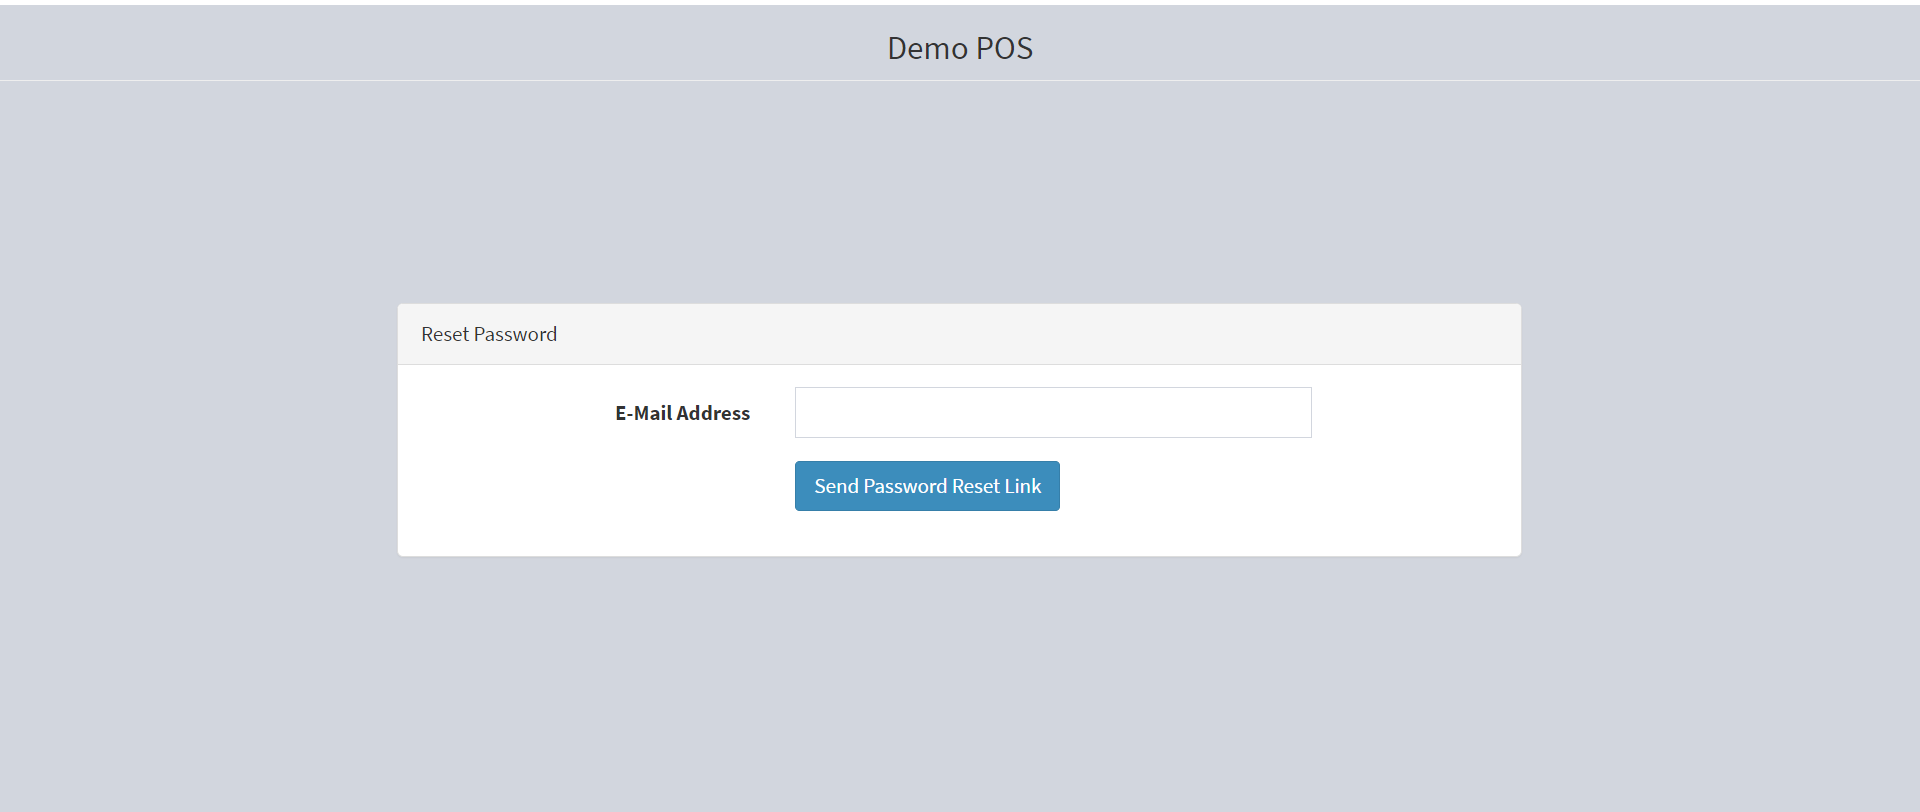
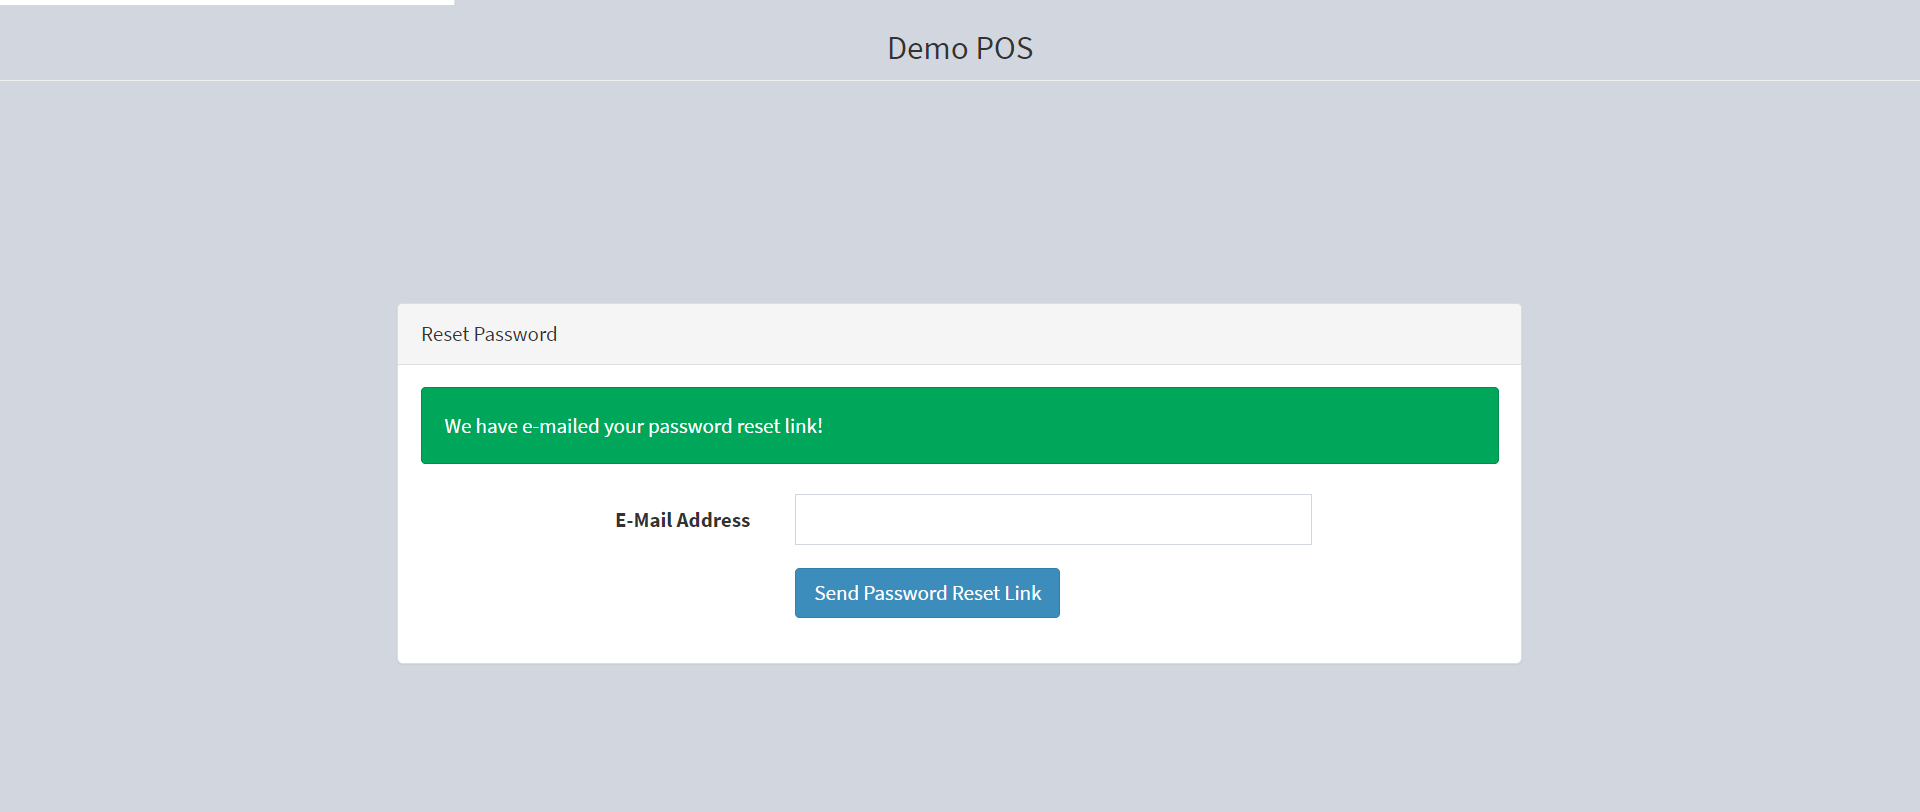
project

Changed region(s): [[0.1875, 0.6773, 0.8125, 0.8313], [0.2188, 0.4618, 0.7812, 0.6466], [0.25, 0.0, 1.0, 0.0308]]

diff --git a/Project-1/test-output/index.html b/Project-1/test-output/index.html
@@ -50,7 +50,7 @@
               <ul>
                 <li>
                   <a href="#" panel-name="test-xml-Default_suite" class="navigator-link ">
-                    <span>C:\Users\pooja\AppData\Local\Temp\testng-eclipse-1835294674\testng-customsuite.xml</span>
+                    <span>C:\Users\pooja\AppData\Local\Temp\testng-eclipse-1530532662\testng-customsuite.xml</span>
                   </a> <!-- navigator-link  -->
                 </li>
                 <li>
@@ -103,7 +103,7 @@
                     <div class="method-list-content passed suite-Default_suite">
                       <span>
                         <img src="passed.png" width="3%"/>
-                        <a href="#" panel-name="suite-Default_suite" title="testscripts.ResetTest" class="method navigator-link" hash-for-method="passwordResetwithValidEmailid">passwordResetwithValidEmailid</a> <!-- method navigator-link -->
+                        <a href="#" panel-name="suite-Default_suite" title="testscripts.ResetTest" class="method navigator-link" hash-for-method="errormessagewithInvalidEmailid">errormessagewithInvalidEmailid</a> <!-- method navigator-link -->
                       </span>
                       <br/>
                     </div> <!-- method-list-content passed suite-Default_suite -->
@@ -126,9 +126,9 @@
             <div class="main-panel-content rounded-window-bottom">
               <div class="method">
                 <div class="method-content">
-                  <a name="passwordResetwithValidEmailid">
-                  </a> <!-- passwordResetwithValidEmailid -->
-                  <span class="method-name">passwordResetwithValidEmailid</span>
+                  <a name="errormessagewithInvalidEmailid">
+                  </a> <!-- errormessagewithInvalidEmailid -->
+                  <span class="method-name">errormessagewithInvalidEmailid</span>
                 </div> <!-- method-content -->
               </div> <!-- method -->
             </div> <!-- main-panel-content rounded-window-bottom -->
@@ -136,7 +136,7 @@
         </div> <!-- panel Default_suite -->
         <div panel-name="test-xml-Default_suite" class="panel">
           <div class="main-panel-header rounded-window-top">
-            <span class="header-content">C:\Users\pooja\AppData\Local\Temp\testng-eclipse-1835294674\testng-customsuite.xml</span>
+            <span class="header-content">C:\Users\pooja\AppData\Local\Temp\testng-eclipse-1530532662\testng-customsuite.xml</span>
           </div> <!-- main-panel-header rounded-window-top -->
           <div class="main-panel-content rounded-window-bottom">
             <pre>
@@ -147,7 +147,7 @@
     &lt;classes&gt;
       &lt;class name=&quot;testscripts.ResetTest&quot;&gt;
         &lt;methods&gt;
-          &lt;include name=&quot;passwordResetwithValidEmailid&quot;/&gt;
+          &lt;include name=&quot;errormessagewithInvalidEmailid&quot;/&gt;
         &lt;/methods&gt;
       &lt;/class&gt; &lt;!-- testscripts.ResetTest --&gt;
     &lt;/classes&gt;
@@ -191,14 +191,14 @@ data.addColumn('string', 'Class');
 data.addColumn('number', 'Time (ms)');
 data.addRows(1);
 data.setCell(0, 0, 0)
-data.setCell(0, 1, 'passwordResetwithValidEmailid')
+data.setCell(0, 1, 'errormessagewithInvalidEmailid')
 data.setCell(0, 2, 'testscripts.ResetTest')
-data.setCell(0, 3, 2275);
+data.setCell(0, 3, 3718);
 window.suiteTableData['Default_suite']= { tableData: data, tableDiv: 'times-div-Default_suite'}
 return data;
 }
               </script>
-              <span class="suite-total-time">Total running time: 2 seconds</span>
+              <span class="suite-total-time">Total running time: 3 seconds</span>
               <div id="times-div-Default_suite">
               </div> <!-- times-div-Default_suite -->
             </div> <!-- times-div -->
@@ -219,7 +219,7 @@ return data;
             <div class="ignored-class-div">
               <span class="ignored-class-name">testscripts.ResetTest</span>
               <div class="ignored-methods-div">
-                <span class="ignored-method-name">errormessagewithInvalidEmailid</span>
+                <span class="ignored-method-name">passwordResetwithValidEmailid</span>
                 <br/>
               </div> <!-- ignored-methods-div -->
             </div> <!-- ignored-class-div -->
@@ -237,12 +237,12 @@ return data;
                 <span class="method-start">0 ms</span>
               </div> <!-- configuration-method before -->
               <div class="test-method">
-                <span class="method-name">passwordResetwithValidEmailid</span>
-                <span class="method-start">12068 ms</span>
+                <span class="method-name">errormessagewithInvalidEmailid</span>
+                <span class="method-start">15000 ms</span>
               </div> <!-- test-method -->
               <div class="configuration-method after">
-                <span class="method-name">closeBrowser([TestResult name=passwordResetwithValidEmailid status=SUCCESS method=ResetTest.passwordResetwithVali...)</span>
-                <span class="method-start">14348 ms</span>
+                <span class="method-name">closeBrowser([TestResult name=errormessagewithInvalidEmailid status=SUCCESS method=ResetTest.errormessagewithInva...)</span>
+                <span class="method-start">18724 ms</span>
               </div> <!-- configuration-method after -->
           </div> <!-- main-panel-content rounded-window-bottom -->
         </div> <!-- panel -->

diff --git a/Project-1/test-output/old/Default suite/methods-alphabetical.html b/Project-1/test-output/old/Default suite/methods-alphabetical.html
@@ -1,10 +1,10 @@
 <h2>Methods run, sorted chronologically</h2><h3>&gt;&gt; means before, &lt;&lt; means after</h3><p/><br/><em>Default suite</em><p/><small><i>(Hover the method name to see the test class name)</i></small><p/>
 <table border="1">
 <tr><th>Time</th><th>Delta (ms)</th><th>Suite<br>configuration</th><th>Test<br>configuration</th><th>Class<br>configuration</th><th>Groups<br>configuration</th><th>Method<br>configuration</th><th>Test<br>method</th><th>Thread</th><th>Instances</th></tr>
-<tr bgcolor="e6e07c">  <td>24/08/26 14:54:15</td>   <td>0</td> <td>&nbsp;</td><td>&nbsp;</td><td>&nbsp;</td><td>&nbsp;</td><td title="&lt;&lt;Base.closeBrowser(org.testng.ITestResult)[pri:0, instance:testscripts.ResetTest@313ac989]">&lt;&lt;closeBrowser</td> 
+<tr bgcolor="e6e07c">  <td>24/08/26 16:21:30</td>   <td>0</td> <td>&nbsp;</td><td>&nbsp;</td><td>&nbsp;</td><td>&nbsp;</td><td title="&lt;&lt;Base.closeBrowser(org.testng.ITestResult)[pri:0, instance:testscripts.ResetTest@313ac989]">&lt;&lt;closeBrowser</td> 
 <td>&nbsp;</td>  <td>main@1159190947</td>   <td></td> </tr>
-<tr bgcolor="ef8d72">  <td>24/08/26 14:54:13</td>   <td>-2282</td> <td>&nbsp;</td><td>&nbsp;</td><td>&nbsp;</td><td>&nbsp;</td><td>&nbsp;</td><td title="ResetTest.passwordResetwithValidEmailid()[pri:0, instance:testscripts.ResetTest@313ac989]">passwordResetwithValidEmailid</td> 
+<tr bgcolor="ef8d72">  <td>24/08/26 16:21:27</td>   <td>-3728</td> <td>&nbsp;</td><td>&nbsp;</td><td>&nbsp;</td><td>&nbsp;</td><td>&nbsp;</td><td title="ResetTest.errormessagewithInvalidEmailid()[pri:0, instance:testscripts.ResetTest@313ac989]">errormessagewithInvalidEmailid</td> 
   <td>main@1159190947</td>   <td></td> </tr>
-<tr bgcolor="e6e07c">  <td>24/08/26 14:54:01</td>   <td>-14346</td> <td>&nbsp;</td><td>&nbsp;</td><td>&nbsp;</td><td>&nbsp;</td><td title="&gt;&gt;Base.setBrowser()[pri:0, instance:testscripts.ResetTest@313ac989]">&gt;&gt;setBrowser</td> 
+<tr bgcolor="e6e07c">  <td>24/08/26 16:21:12</td>   <td>-18724</td> <td>&nbsp;</td><td>&nbsp;</td><td>&nbsp;</td><td>&nbsp;</td><td title="&gt;&gt;Base.setBrowser()[pri:0, instance:testscripts.ResetTest@313ac989]">&gt;&gt;setBrowser</td> 
 <td>&nbsp;</td>  <td>main@1159190947</td>   <td></td> </tr>
 </table>

diff --git a/Project-1/test-output/old/Default suite/methods.html b/Project-1/test-output/old/Default suite/methods.html
@@ -1,10 +1,10 @@
 <h2>Methods run, sorted chronologically</h2><h3>&gt;&gt; means before, &lt;&lt; means after</h3><p/><br/><em>Default suite</em><p/><small><i>(Hover the method name to see the test class name)</i></small><p/>
 <table border="1">
 <tr><th>Time</th><th>Delta (ms)</th><th>Suite<br>configuration</th><th>Test<br>configuration</th><th>Class<br>configuration</th><th>Groups<br>configuration</th><th>Method<br>configuration</th><th>Test<br>method</th><th>Thread</th><th>Instances</th></tr>
-<tr bgcolor="e6e07c">  <td>24/08/26 14:54:01</td>   <td>0</td> <td>&nbsp;</td><td>&nbsp;</td><td>&nbsp;</td><td>&nbsp;</td><td title="&gt;&gt;Base.setBrowser()[pri:0, instance:testscripts.ResetTest@313ac989]">&gt;&gt;setBrowser</td> 
+<tr bgcolor="e6e07c">  <td>24/08/26 16:21:30</td>   <td>0</td> <td>&nbsp;</td><td>&nbsp;</td><td>&nbsp;</td><td>&nbsp;</td><td title="&lt;&lt;Base.closeBrowser(org.testng.ITestResult)[pri:0, instance:testscripts.ResetTest@313ac989]">&lt;&lt;closeBrowser</td> 
 <td>&nbsp;</td>  <td>main@1159190947</td>   <td></td> </tr>
-<tr bgcolor="e6e07c">  <td>24/08/26 14:54:15</td>   <td>14346</td> <td>&nbsp;</td><td>&nbsp;</td><td>&nbsp;</td><td>&nbsp;</td><td title="&lt;&lt;Base.closeBrowser(org.testng.ITestResult)[pri:0, instance:testscripts.ResetTest@313ac989]">&lt;&lt;closeBrowser</td> 
+<tr bgcolor="e6e07c">  <td>24/08/26 16:21:12</td>   <td>-18724</td> <td>&nbsp;</td><td>&nbsp;</td><td>&nbsp;</td><td>&nbsp;</td><td title="&gt;&gt;Base.setBrowser()[pri:0, instance:testscripts.ResetTest@313ac989]">&gt;&gt;setBrowser</td> 
 <td>&nbsp;</td>  <td>main@1159190947</td>   <td></td> </tr>
-<tr bgcolor="ef8d72">  <td>24/08/26 14:54:13</td>   <td>12064</td> <td>&nbsp;</td><td>&nbsp;</td><td>&nbsp;</td><td>&nbsp;</td><td>&nbsp;</td><td title="ResetTest.passwordResetwithValidEmailid()[pri:0, instance:testscripts.ResetTest@313ac989]">passwordResetwithValidEmailid</td> 
+<tr bgcolor="ef8d72">  <td>24/08/26 16:21:27</td>   <td>-3728</td> <td>&nbsp;</td><td>&nbsp;</td><td>&nbsp;</td><td>&nbsp;</td><td>&nbsp;</td><td title="ResetTest.errormessagewithInvalidEmailid()[pri:0, instance:testscripts.ResetTest@313ac989]">errormessagewithInvalidEmailid</td> 
   <td>main@1159190947</td>   <td></td> </tr>
 </table>

diff --git a/Project-1/test-output/emailable-report.html b/Project-1/test-output/emailable-report.html
@@ -9,10 +9,10 @@
 <table>
 <tr><th>Test</th><th># Passed</th><th># Skipped</th><th># Retried</th><th># Failed</th><th>Time (ms)</th><th>Included Groups</th><th>Excluded Groups</th></tr>
 <tr><th colspan="8">Default suite</th></tr>
-<tr><td><a href="#t0">Default test</a></td><td class="num">1</td><td class="num">0</td><td class="num">0</td><td class="num">0</td><td class="num">14,389</td><td></td><td></td></tr>
+<tr><td><a href="#t0">Default test</a></td><td class="num">1</td><td class="num">0</td><td class="num">0</td><td class="num">0</td><td class="num">18,925</td><td></td><td></td></tr>
 </table>
-<table id='summary'><thead><tr><th>Class</th><th>Method</th><th>Start</th><th>Time (ms)</th></tr></thead><tbody><tr><th colspan="4">Default suite</th></tr></tbody><tbody id="t0"><tr><th colspan="4">Default test &#8212; passed</th></tr><tr class="passedeven"><td rowspan="1">testscripts.ResetTest</td><td><a href="#m0">passwordResetwithValidEmailid</a></td><td rowspan="1">1724664253194</td><td rowspan="1">2275</td></tr></tbody>
+<table id='summary'><thead><tr><th>Class</th><th>Method</th><th>Start</th><th>Time (ms)</th></tr></thead><tbody><tr><th colspan="4">Default suite</th></tr></tbody><tbody id="t0"><tr><th colspan="4">Default test &#8212; passed</th></tr><tr class="passedeven"><td rowspan="1">testscripts.ResetTest</td><td><a href="#m0">errormessagewithInvalidEmailid</a></td><td rowspan="1">1724669487231</td><td rowspan="1">3718</td></tr></tbody>
 </table>
-<h2>Default test</h2><h3 id="m0">testscripts.ResetTest#passwordResetwithValidEmailid</h3><table class="result"><tr><th class="invisible"/></tr></table><p class="totop"><a href="#summary">back to summary</a></p>
+<h2>Default test</h2><h3 id="m0">testscripts.ResetTest#errormessagewithInvalidEmailid</h3><table class="result"><tr><th class="invisible"/></tr></table><p class="totop"><a href="#summary">back to summary</a></p>
 </body>
 </html>

diff --git a/Project-1/test-output/old/index.html b/Project-1/test-output/old/index.html
@@ -4,6 +4,6 @@
 </head><body>
 <h2><p align='center'>Test results</p></h2>
 <table border='1' width='100%' class='main-page'><tr><th>Suite</th><th>Passed</th><th>Failed</th><th>Skipped</th><th>testng.xml</th></tr>
-<tr align='center' class='invocation-failed'><td><em>Total</em></td><td><em>0</em></td><td><em>1</em></td><td><em>0</em></td><td>&nbsp;</td></tr>
-<tr align='center' class='invocation-failed'><td><a href='Default suite/index.html'>Default suite</a></td>
-<td>0</td><td>1</td><td>0</td><td><a href='Default suite/testng.xml.html'>Link</a></td></tr></table></body></html>
+<tr align='center' class='invocation-passed'><td><em>Total</em></td><td><em>1</em></td><td><em>0</em></td><td><em>0</em></td><td>&nbsp;</td></tr>
+<tr align='center' class='invocation-passed'><td><a href='Default suite/index.html'>Default suite</a></td>
+<td>1</td><td>0</td><td>0</td><td><a href='Default suite/testng.xml.html'>Link</a></td></tr></table></body></html>

diff --git a/Project-1/test-output/Default suite/Default test.html b/Project-1/test-output/Default suite/Default test.html
@@ -57,9 +57,9 @@ function toggleAllBoxes() {
 <tr>
 <td>Tests passed/Failed/Skipped:</td><td>1/0/0</td>
 </tr><tr>
-<td>Started on:</td><td>Mon Aug 26 14:54:01 IST 2024</td>
+<td>Started on:</td><td>Mon Aug 26 16:21:12 IST 2024</td>
 </tr>
-<tr><td>Total time:</td><td>14 seconds (14389 ms)</td>
+<tr><td>Total time:</td><td>18 seconds (18925 ms)</td>
 </tr><tr>
 <td>Included groups:</td><td></td>
 </tr><tr>
@@ -76,9 +76,9 @@ function toggleAllBoxes() {
 <td><b>Instance</b></td>
 </tr>
 <tr>
-<td title='testscripts.ResetTest.passwordResetwithValidEmailid()'><b>passwordResetwithValidEmailid</b><br>Test class: testscripts.ResetTest</td>
+<td title='testscripts.ResetTest.errormessagewithInvalidEmailid()'><b>errormessagewithInvalidEmailid</b><br>Test class: testscripts.ResetTest</td>
 <td></td>
-<td>2</td>
+<td>3</td>
 <td>testscripts.ResetTest@313ac989</td></tr>
 </table><p>
 </body>

diff --git a/Project-1/src/test/java/testscripts/ResetTest.java b/Project-1/src/test/java/testscripts/ResetTest.java
@@ -1,5 +1,7 @@
 package testscripts;
 
+import static org.testng.Assert.assertEquals;
+
 import org.openqa.selenium.By;
 import org.openqa.selenium.WebElement;
 import org.testng.Assert;
@@ -16,18 +18,16 @@ public class ResetTest  extends Base {
 	
 	public void errormessagewithInvalidEmailid()
 	{
-		WebElement forgetpasswordlink=driver.findElement(By.xpath("//a[@class='btn btn-link']"));
-		forgetpasswordlink.click();
-		
+		//WebElement forgetpasswordlink=driver.findElement(By.xpath("//a[@class='btn btn-link']"));
+		//forgetpasswordlink.click();
+		ResetPage reset=new ResetPage(driver);
+		reset.clickResetLink();
 		String emailId= ExcelUtility.getStringData(0, 0,"ResetTest");
 		String errormessage=ExcelUtility.getStringData(0, 1, "ResetTest");
-		WebElement femail=driver.findElement(By.xpath("//input[@id='email']"));
-		femail.sendKeys(emailId);
-		WebElement submit=driver.findElement(By.xpath("//button[@class='btn btn-primary']"));
-		submit.click();
+		reset.enterEmail(emailId);
+		reset.clickSubmit();
+		String actualerrormsg=reset.getErrorMessage();
 		
-		WebElement actualerror=driver.findElement(By.xpath("//span[@class='help-block']//strong"));
-		String actualerrormsg=actualerror.getText();
 		Assert.assertEquals(actualerrormsg,errormessage,"Invalid RESET Credentials" );
 		
 }
@@ -38,14 +38,15 @@ public class ResetTest  extends Base {
 		//WebElement forgetpasswordlink=driver.findElement(By.xpath("//a[@class='btn btn-link']"));
 		//forgetpasswordlink.click();
 		
-		ResetPage page1=new ResetPage(driver);
-		page1.clickResetLink();
+		ResetPage reset=new ResetPage(driver);
+		reset.clickResetLink();
 		String emailId= ExcelUtility.getStringData(1, 0,"ResetTest");
-		String errormessage=ExcelUtility.getStringData(1, 1, "ResetTest");
-		WebElement femail=driver.findElement(By.xpath("//input[@id='email']"));
-		femail.sendKeys(emailId);
-		WebElement submit=driver.findElement(By.xpath("//button[@class='btn btn-primary']"));
-		submit.click();
+		reset.enterEmail(emailId);
+		reset.clickSubmit();
+		String expectedSuccessMessage = ExcelUtility.getStringData(0, 2, "ResetTest");
+		String actualSuccessMessage=reset.getSuccessMessage();
+		
+		assertEquals("We have e-mailed your password reset link!", expectedSuccessMessage, actualSuccessMessage);
 		
 	}
 }

diff --git a/Project-1/src/test/java/pageObjects/ResetPage.java b/Project-1/src/test/java/pageObjects/ResetPage.java
@@ -1,26 +1,61 @@
 package pageObjects;
 
+import org.openqa.selenium.By;
 import org.openqa.selenium.WebDriver;
 import org.openqa.selenium.WebElement;
 import org.openqa.selenium.support.FindBy;
 import org.openqa.selenium.support.PageFactory;
+import org.openqa.selenium.support.ui.ExpectedConditions;
+import org.openqa.selenium.support.ui.WebDriverWait;
 
 public class ResetPage {
 	WebDriver driver;
-
+	 WebDriverWait wait;
+	
     // Constructor to initialize WebDriver and page elements
     public ResetPage(WebDriver driver) {
         this.driver = driver;
+        
         PageFactory.initElements(driver, this);
     }
     
-    
-
+   
 	@FindBy(xpath="//a[@class='btn btn-link']")
     WebElement resetLink;
+	
+	@FindBy(xpath="//input[@id='email']")
+	WebElement femail;
+	
+	@FindBy(xpath="//button[@class='btn btn-primary']")
+			WebElement submit;
+	
+	@FindBy(xpath="//div[@class='alert alert-success']")
+	WebElement success;
+	
+	@FindBy(xpath="//span[@class='help-block']//strong")
+	WebElement failure;
     public void clickResetLink()
     {
     	resetLink.click();
     }
+    
+    public void clickSubmit()
+    {
+    	submit.click();
+    }
+    
+    public void enterEmail(String email) {
+    	// WebElement emailInput = wait.until(ExpectedConditions.visibilityOfElementLocated(By.xpath("//input[@id='email']")));
+        femail.sendKeys(email);
+}
 
+    public String getSuccessMessage() {
+    	
+    	return success.getText();
+    }
+    
+public String getErrorMessage() {
+    	
+    	return failure.getText();
+    }
 }

diff --git a/Project-1/src/test/java/testscripts/CreateUsersPageTest.java b/Project-1/src/test/java/testscripts/CreateUsersPageTest.java
@@ -85,10 +85,7 @@ create.enterCommission(commission);
  
  Assert.assertEquals(successMessage, "User added Successfully", "User creation failed");
 
- // Optionally, verify the user appears in the list
- us.enterSearchTerm(username);
- boolean isUserPresent = us.isUserPresentInSearchResults(profilename); 
- Assert.assertTrue(isUserPresent, "The newly created user was not found in the user list");      
+   
         
 }
     @Test

diff --git a/Project-1/src/test/java/automation/org/Base.java b/Project-1/src/test/java/automation/org/Base.java
@@ -69,7 +69,7 @@ import utilities.PageUtility;
 		
 			
 			
-			//driver.close();
+			driver.close();
 		}
 		public void verifyTakeScreenshot(ITestResult result) throws IOException
 		{
